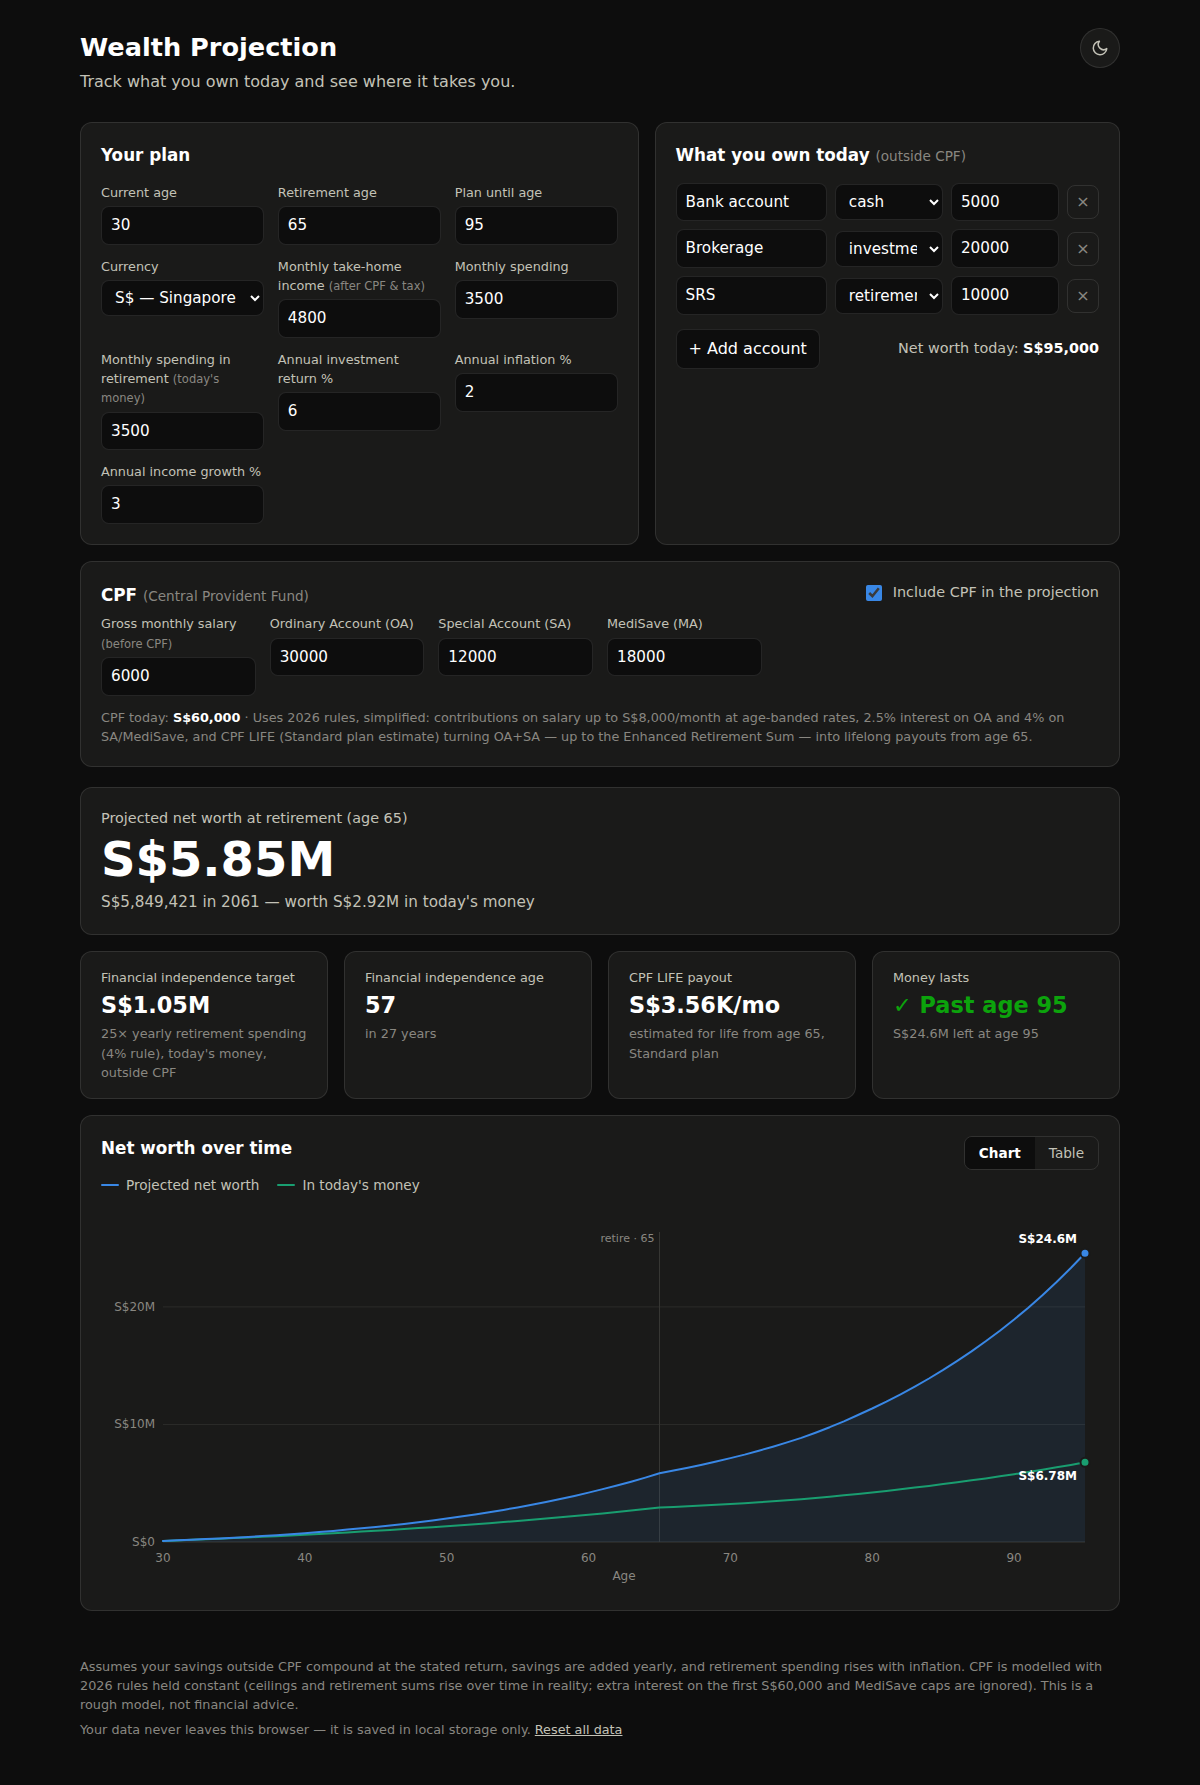
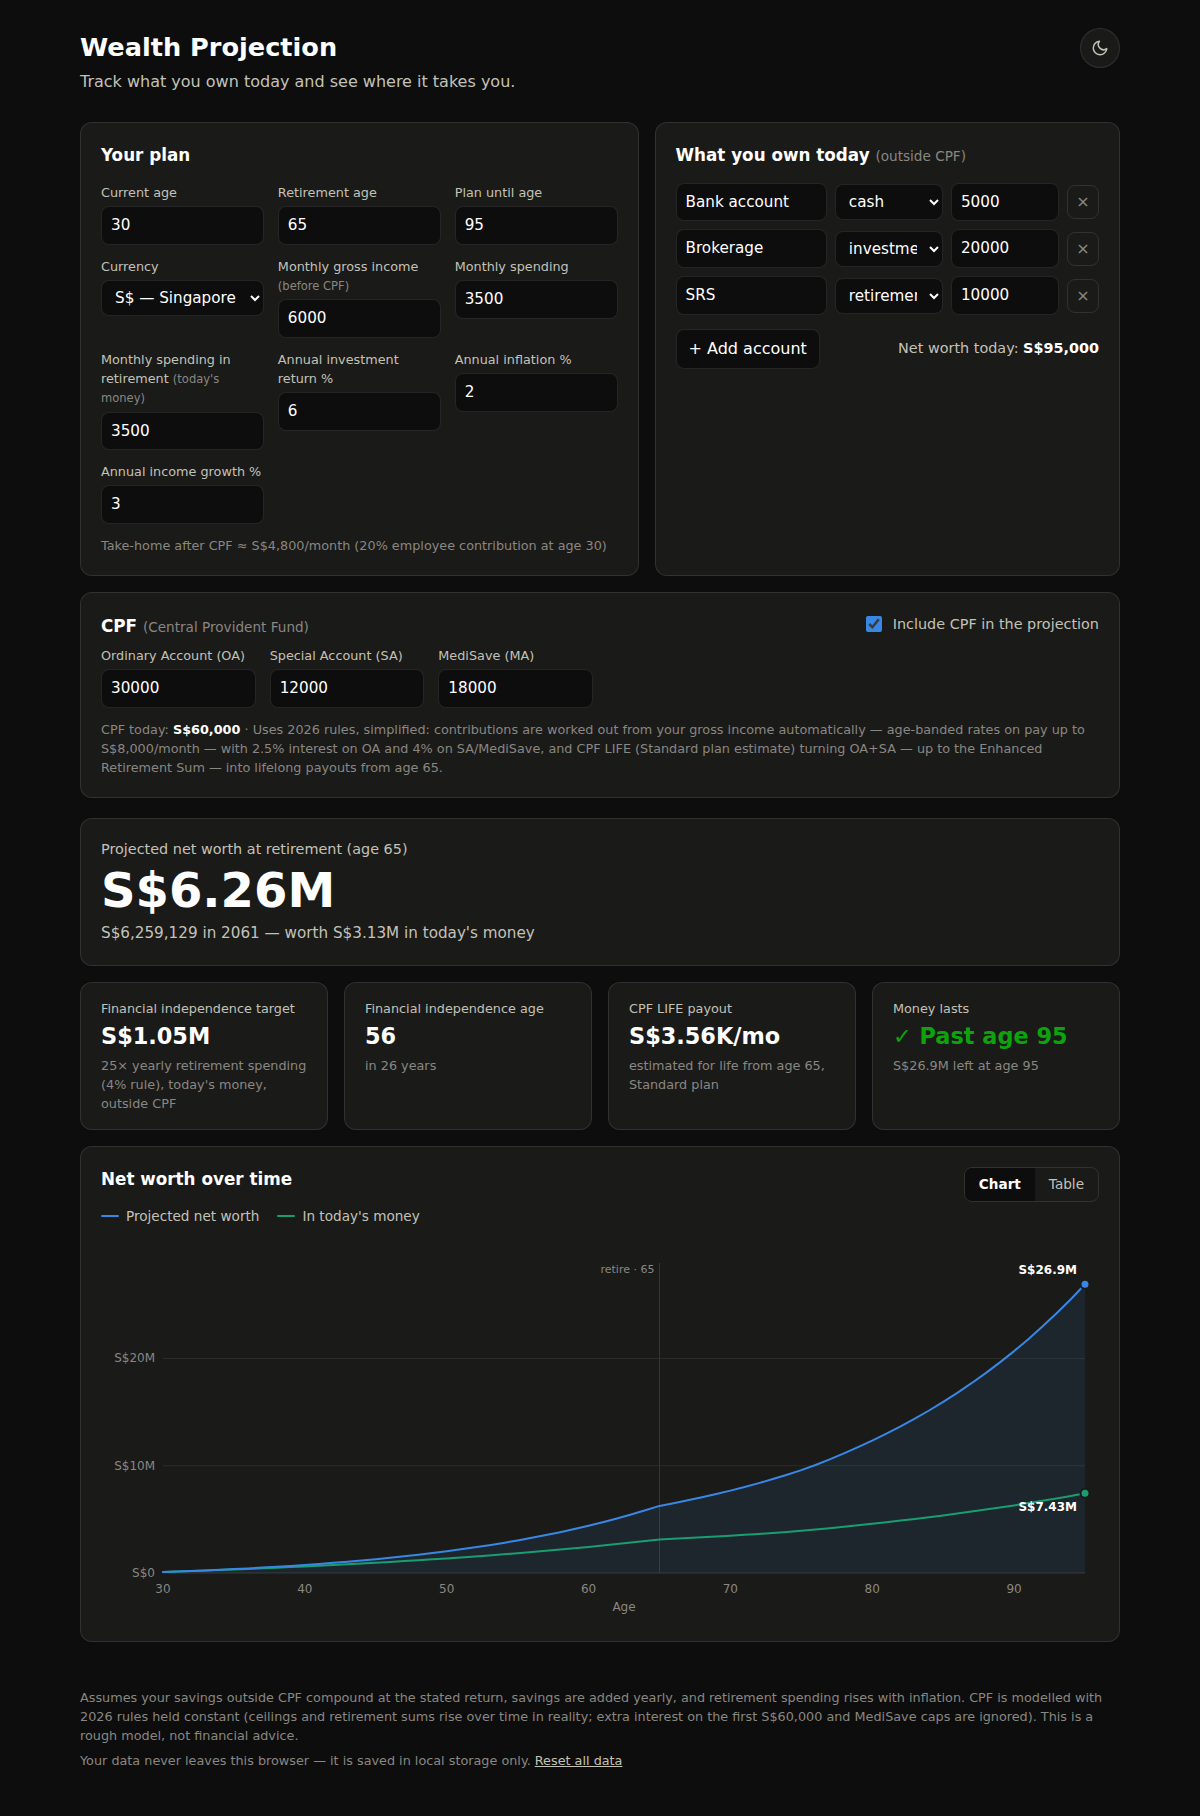
Take gross income in the plan; derive CPF and take-home automatically
Replace the take-home income input with gross monthly income (before
CPF). The employee's CPF share is now deducted automatically using the
2026 age-banded rates (20% to 55, 18% to 60, 12.5% to 65, 7.5% to 70,
then 5%) on wages up to the ceiling, and a hint under the plan shows the
resulting take-home pay. The CPF card loses its separate salary field —
contributions are computed from the same gross income. Saved v2 state
migrates, preferring the old CPF salary as the new gross income.

Claude-Session: https://claude.ai/code/session_01GSpZFDgGv9EkE1mJWvqyMR

diff --git a/js/projection.js b/js/projection.js
@@ -2,13 +2,18 @@
  * Pure wealth-projection engine. Annual steps, no DOM — usable in tests.
  *
  * Model: liquid net worth (everything outside CPF) compounds at `returnRate`;
- * while working, yearly savings (take-home income − expenses) are added; in
- * retirement, that year's inflation-adjusted spending is withdrawn instead.
- * Once liquid savings hit zero they stay at zero (no borrowing in retirement).
+ * while working, yearly savings (income − expenses) are added; in retirement,
+ * that year's inflation-adjusted spending is withdrawn instead. Once liquid
+ * savings hit zero they stay at zero (no borrowing in retirement).
+ *
+ * Income is GROSS (before CPF). With CPF enabled, the employee's age-banded
+ * share is deducted automatically to get take-home pay; with CPF disabled,
+ * gross is treated as take-home.
  *
  * Optional CPF module (Singapore): OA/SA/MediSave balances earn CPF interest
- * and receive age-banded contributions on the capped gross salary while
- * working. At 65, OA+SA (up to the Enhanced Retirement Sum) is annuitized
+ * and receive age-banded total (employer + employee) contributions on the
+ * capped gross income while working. At 65, OA+SA (up to the Enhanced
+ * Retirement Sum) is annuitized
  * into CPF LIFE: a fixed lifelong payout that offsets retirement spending.
  * The unused premium (premium − payouts made, floored at 0) stays in net
  * worth as the bequest value, mirroring the Standard plan's refund.
@@ -36,6 +41,14 @@ export const CPF = {
     if (age <= 70) return 0.165;
     return 0.125;
   },
+  // The employee's share of the above (deducted from gross pay), 1 Jan 2026.
+  employeeRateForAge(age) {
+    if (age <= 55) return 0.2;
+    if (age <= 60) return 0.18;
+    if (age <= 65) return 0.125;
+    if (age <= 70) return 0.075;
+    return 0.05;
+  },
 };
 
 export function project(p) {
@@ -48,7 +61,7 @@ export function project(p) {
   const startYear = num(p.startYear, new Date().getFullYear());
 
   let liquid = num(p.startNetWorth, 0);
-  let income = num(p.annualIncome, 0);
+  let gross = num(p.annualGrossIncome, 0);
   let expenses = num(p.annualExpenses, 0);
   const retirementSpendToday = num(p.annualRetirementSpend, expenses);
 
@@ -56,7 +69,6 @@ export function project(p) {
   let oa = cpfOn ? num(p.cpf.oa, 0) : 0;
   let sa = cpfOn ? num(p.cpf.sa, 0) : 0;
   let ma = cpfOn ? num(p.cpf.ma, 0) : 0;
-  let salary = cpfOn ? num(p.cpf.grossMonthlySalary, 0) * 12 : 0;
   let annuityPool = 0;
   let annualPayout = 0;
   let annuitized = false;
@@ -88,14 +100,13 @@ export function project(p) {
         sa *= 1 + CPF.SMRA_INTEREST;
         ma *= 1 + CPF.SMRA_INTEREST;
         totalGrowth += cpfInterest;
-        if (working && salary > 0) {
-          const contrib =
-            Math.min(salary, CPF.OW_CEILING_ANNUAL) * CPF.rateForAge(age - 1);
+        if (working && gross > 0) {
+          const cappedWage = Math.min(gross, CPF.OW_CEILING_ANNUAL);
+          const contrib = cappedWage * CPF.rateForAge(age - 1);
           oa += contrib * CPF.ALLOC.oa;
           sa += contrib * CPF.ALLOC.sa;
           ma += contrib * CPF.ALLOC.ma;
           totalSaved += contrib;
-          salary *= 1 + g;
         }
         // CPF LIFE bequest value amortizes as payouts are made; the payout
         // itself continues for life regardless (it's an annuity).
@@ -103,8 +114,12 @@ export function project(p) {
       }
 
       if (working) {
-        cashFlow = income - expenses + annualPayout;
-        income *= 1 + g;
+        // take-home = gross − the employee's CPF share on the capped wage
+        const employeeShare = cpfOn
+          ? Math.min(gross, CPF.OW_CEILING_ANNUAL) * CPF.employeeRateForAge(age - 1)
+          : 0;
+        cashFlow = gross - employeeShare - expenses + annualPayout;
+        gross *= 1 + g;
         expenses *= 1 + infl;
       } else {
         cashFlow = annualPayout - retirementSpendToday * deflator;

diff --git a/js/app.js b/js/app.js
@@ -1,7 +1,8 @@
-import { project } from "./projection.js";
+import { project, CPF } from "./projection.js";
 import { renderChart } from "./chart.js";
 
-const STORAGE_KEY = "wealth-projection-v2";
+const STORAGE_KEY = "wealth-projection-v3";
+const LEGACY_STORAGE_KEY = "wealth-projection-v2";
 
 const DEFAULT_STATE = {
   theme: "system",
@@ -9,7 +10,7 @@ const DEFAULT_STATE = {
   currentAge: 30,
   retirementAge: 65,
   endAge: 95,
-  monthlyIncome: 4800,
+  monthlyGrossIncome: 6000,
   monthlyExpenses: 3500,
   monthlyRetirementSpend: 3500,
   returnRate: 6,
@@ -17,7 +18,6 @@ const DEFAULT_STATE = {
   incomeGrowthRate: 3,
   cpf: {
     enabled: true,
-    grossMonthlySalary: 6000,
     oa: 30000,
     sa: 12000,
     ma: 18000,
@@ -38,14 +38,25 @@ let disposeChart = () => {};
 function loadState() {
   try {
     const raw = localStorage.getItem(STORAGE_KEY);
-    if (raw) {
-      const saved = JSON.parse(raw);
-      const merged = { ...structuredClone(DEFAULT_STATE), ...saved };
-      merged.cpf = { ...structuredClone(DEFAULT_STATE.cpf), ...(saved.cpf || {}) };
-      return merged;
+    if (raw) return mergeSaved(JSON.parse(raw));
+    const legacy = localStorage.getItem(LEGACY_STORAGE_KEY);
+    if (legacy) {
+      // v2 stored take-home income plus a separate CPF gross salary; income
+      // is now gross, so prefer the old gross salary when it exists.
+      const old = JSON.parse(legacy);
+      old.monthlyGrossIncome = old.cpf?.grossMonthlySalary ?? old.monthlyIncome;
+      delete old.monthlyIncome;
+      return mergeSaved(old);
     }
   } catch { /* corrupt storage — fall back to defaults */ }
   return structuredClone(DEFAULT_STATE);
+}
+
+function mergeSaved(saved) {
+  const merged = { ...structuredClone(DEFAULT_STATE), ...saved };
+  merged.cpf = { ...structuredClone(DEFAULT_STATE.cpf), ...(saved.cpf || {}) };
+  delete merged.cpf.grossMonthlySalary;
+  return merged;
 }
 
 function saveState() {
@@ -71,7 +82,7 @@ function fmtFull(v) {
 
 /* ---------- plan inputs ---------- */
 const PLAN_FIELDS = [
-  "currentAge", "retirementAge", "endAge", "monthlyIncome", "monthlyExpenses",
+  "currentAge", "retirementAge", "endAge", "monthlyGrossIncome", "monthlyExpenses",
   "monthlyRetirementSpend", "returnRate", "inflationRate", "incomeGrowthRate",
 ];
 
@@ -101,7 +112,6 @@ function bindPlanInputs() {
 
 /* ---------- CPF ---------- */
 const CPF_FIELDS = [
-  ["in-cpfSalary", "grossMonthlySalary"],
   ["in-cpfOa", "oa"],
   ["in-cpfSa", "sa"],
   ["in-cpfMa", "ma"],
@@ -231,7 +241,7 @@ function recompute() {
     retirementAge: state.retirementAge,
     endAge: state.endAge,
     startNetWorth: accountsTotal(),
-    annualIncome: state.monthlyIncome * 12,
+    annualGrossIncome: state.monthlyGrossIncome * 12,
     annualExpenses: state.monthlyExpenses * 12,
     annualRetirementSpend: state.monthlyRetirementSpend * 12,
     returnRate: state.returnRate,
@@ -240,6 +250,7 @@ function recompute() {
     cpf: state.cpf,
   });
 
+  updateIncomeHint();
   renderHero(result);
   renderTiles(result);
   disposeChart();
@@ -250,6 +261,22 @@ function recompute() {
   });
   renderTable(result);
   updateChartAria(result);
+}
+
+function updateIncomeHint() {
+  const hint = document.getElementById("income-hint");
+  if (!state.cpf.enabled || !(state.monthlyGrossIncome > 0)) {
+    hint.hidden = true;
+    return;
+  }
+  const rate = CPF.employeeRateForAge(state.currentAge);
+  const monthlyCeiling = CPF.OW_CEILING_ANNUAL / 12;
+  const takeHome = state.monthlyGrossIncome
+    - rate * Math.min(state.monthlyGrossIncome, monthlyCeiling);
+  hint.hidden = false;
+  hint.textContent =
+    `Take-home after CPF ≈ ${fmtFull(takeHome)}/month ` +
+    `(${(rate * 100).toLocaleString("en-US")}% employee contribution at age ${state.currentAge})`;
 }
 
 function renderHero(result) {

diff --git a/index.html b/index.html
@@ -67,8 +67,8 @@
             </select>
           </label>
           <label class="field">
-            <span class="field-label">Monthly take-home income <small>(after CPF &amp; tax)</small></span>
-            <input type="number" id="in-monthlyIncome" min="0" step="100">
+            <span class="field-label">Monthly gross income <small>(before CPF)</small></span>
+            <input type="number" id="in-monthlyGrossIncome" min="0" step="100">
           </label>
           <label class="field">
             <span class="field-label">Monthly spending</span>
@@ -91,6 +91,7 @@
             <input type="number" id="in-incomeGrowthRate" min="0" max="20" step="0.1">
           </label>
         </div>
+        <p class="income-hint" id="income-hint" hidden></p>
       </div>
 
       <div class="card">
@@ -112,10 +113,6 @@
         </div>
         <div class="field-grid" id="cpf-fields">
           <label class="field">
-            <span class="field-label">Gross monthly salary <small>(before CPF)</small></span>
-            <input type="number" id="in-cpfSalary" min="0" step="100">
-          </label>
-          <label class="field">
             <span class="field-label">Ordinary Account (OA)</span>
             <input type="number" id="in-cpfOa" min="0" step="1000">
           </label>
@@ -130,10 +127,11 @@
         </div>
         <p class="cpf-note">
           <span id="cpf-total-line">CPF today: <strong id="cpf-total-value"></strong> · </span>
-          Uses 2026 rules, simplified: contributions on salary up to S$8,000/month at
-          age-banded rates, 2.5% interest on OA and 4% on SA/MediSave, and CPF LIFE
-          (Standard plan estimate) turning OA+SA — up to the Enhanced Retirement Sum —
-          into lifelong payouts from age 65.
+          Uses 2026 rules, simplified: contributions are worked out from your gross
+          income automatically — age-banded rates on pay up to S$8,000/month —
+          with 2.5% interest on OA and 4% on SA/MediSave, and CPF LIFE (Standard
+          plan estimate) turning OA+SA — up to the Enhanced Retirement Sum — into
+          lifelong payouts from age 65.
         </p>
       </div>
     </section>

diff --git a/styles.css b/styles.css
@@ -110,6 +110,7 @@ button { font: inherit; color: inherit; }
 .field { display: flex; flex-direction: column; gap: 4px; }
 .field-label { font-size: 0.8rem; color: var(--text-secondary); }
 .field-label small { color: var(--text-muted); font-size: 0.72rem; }
+.income-hint { margin: 12px 0 0; font-size: 0.8rem; color: var(--text-muted); }
 input[type="number"], select, .account-row input, .account-row select {
   background: var(--page);
   color: var(--text-primary);

diff --git a/README.md b/README.md
@@ -47,6 +47,8 @@ on `file://` URLs.)
 Annual steps, deliberately simple:
 
 - Savings outside CPF compound at the stated investment return.
+- Income is entered **gross** (before CPF); with CPF enabled, the employee's
+  age-banded CPF share is deducted automatically to get take-home pay.
 - While working, yearly savings (take-home income − spending) are added; income
   grows at its own rate and spending rises with inflation.
 - From retirement age on, that year's inflation-adjusted retirement spending is
@@ -60,9 +62,12 @@ Annual steps, deliberately simple:
 
 The optional CPF module models the Central Provident Fund with 2026 rules:
 
-- **Contributions** — total (employer + employee) rates on gross salary up to
-  the S$8,000/month Ordinary Wage ceiling: 37% up to age 55, then 34%
-  (55–60), 25% (60–65), 16.5% (65–70), and 12.5% after 70, while you work.
+- **Contributions** — worked out automatically from your gross income: total
+  (employer + employee) rates on pay up to the S$8,000/month Ordinary Wage
+  ceiling are 37% up to age 55, then 34% (55–60), 25% (60–65), 16.5% (65–70),
+  and 12.5% after 70, while you work. The employee's share of that (20%,
+  stepping down to 5% by the same age bands) comes out of gross pay; the
+  employer's share is on top.
 - **Interest** — 2.5% on the Ordinary Account, 4% on Special Account and
   MediSave (the floor rates).
 - **CPF LIFE** — at 65, OA+SA up to the Enhanced Retirement Sum (S$440,800) is
@@ -76,8 +81,7 @@ Simplifications, in the interest of staying understandable: 2026 ceilings and
 retirement sums are held constant in nominal terms (they rise over time in
 reality); contribution allocation uses the under-35 OA/SA/MA split at every
 age; the extra 1% interest on the first S$60,000 and the MediSave cap (BHS)
-are ignored; take-home income is assumed to already exclude the employee's
-CPF share.
+are ignored; income tax is not modelled.
 
 This is a rough planning model, not financial advice — it also ignores taxes,
 sequence-of-returns risk, and asset allocation.
